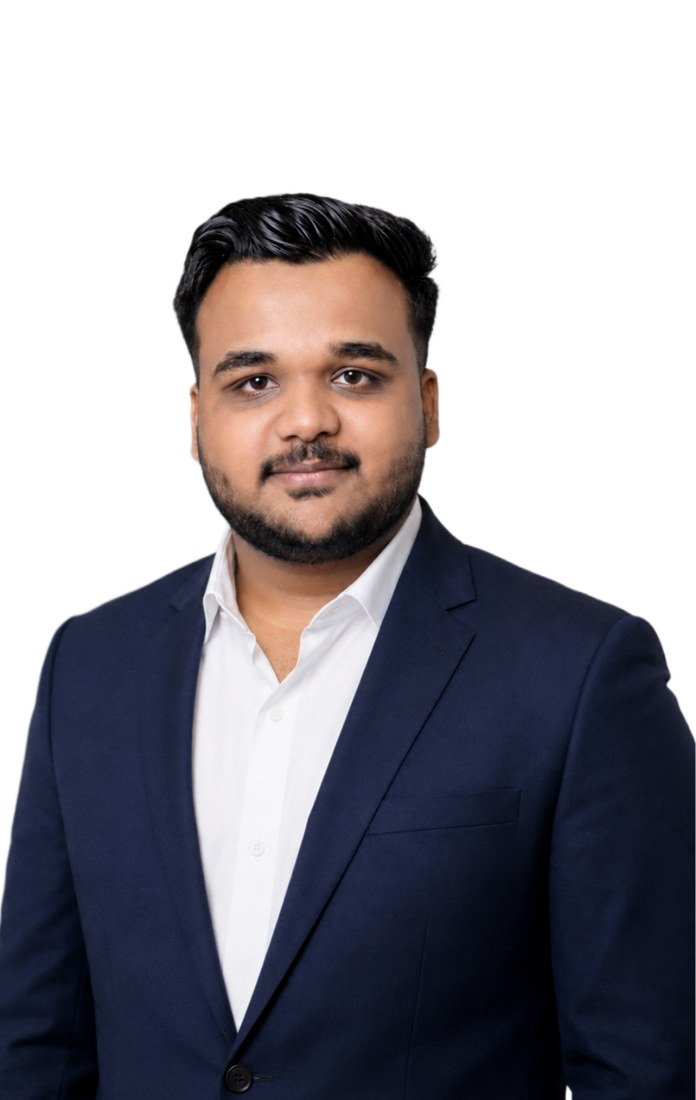
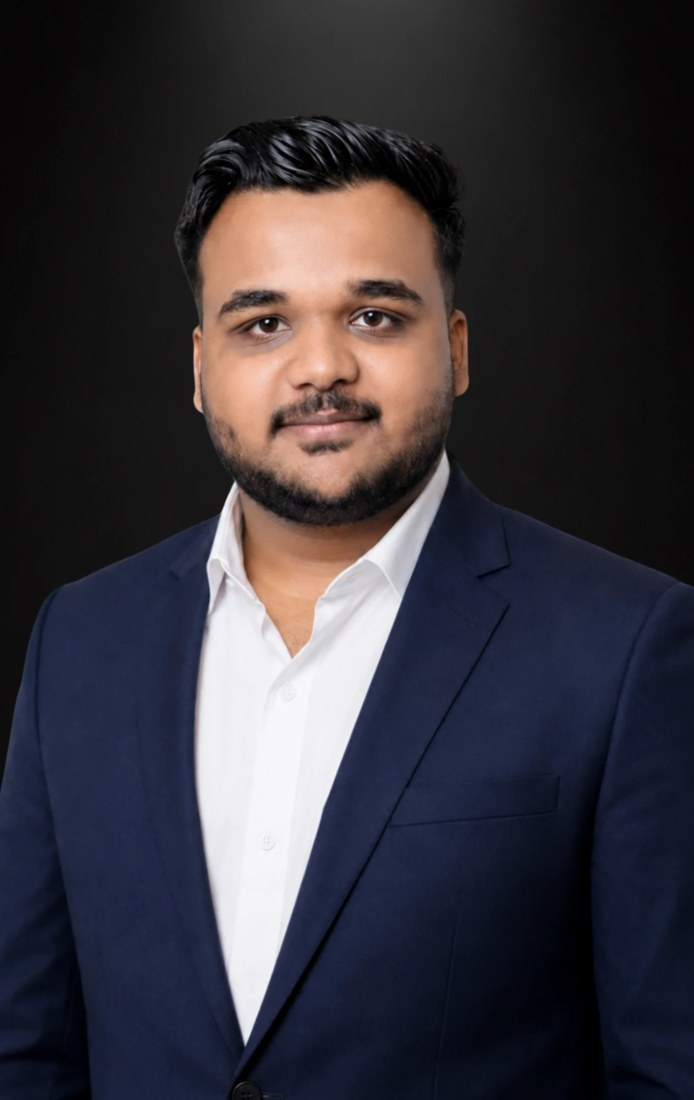
Update Sara Bakshi, Yash Jagtap, and Om Pol team carousel photos
Swaps in the client's newly-provided headshots and retunes each
photo's crop position for the new framing (removes the old zoom
overrides that were tuned for the previous source images).

diff --git a/src/routes/about-us.tsx b/src/routes/about-us.tsx
@@ -105,6 +105,7 @@ const team: TeamMember[] = [
     role: "Chief Operating Officer",
     quote: "Building quietly. Growing consistently.",
     photo: omPolPhoto,
+    photoPosition: "50% 8%",
   },
   {
     name: "Faraz Sayyed",
@@ -120,8 +121,7 @@ const team: TeamMember[] = [
     quote:
       "Every hypothesis we test is rigorously validated by empirical metrics and real-world utility.",
     photo: saraBakshiPhoto,
-    photoPosition: "52% 14%",
-    photoSize: "142% auto",
+    photoPosition: "50% 15%",
   },
   {
     name: "Yash Jagtap",
